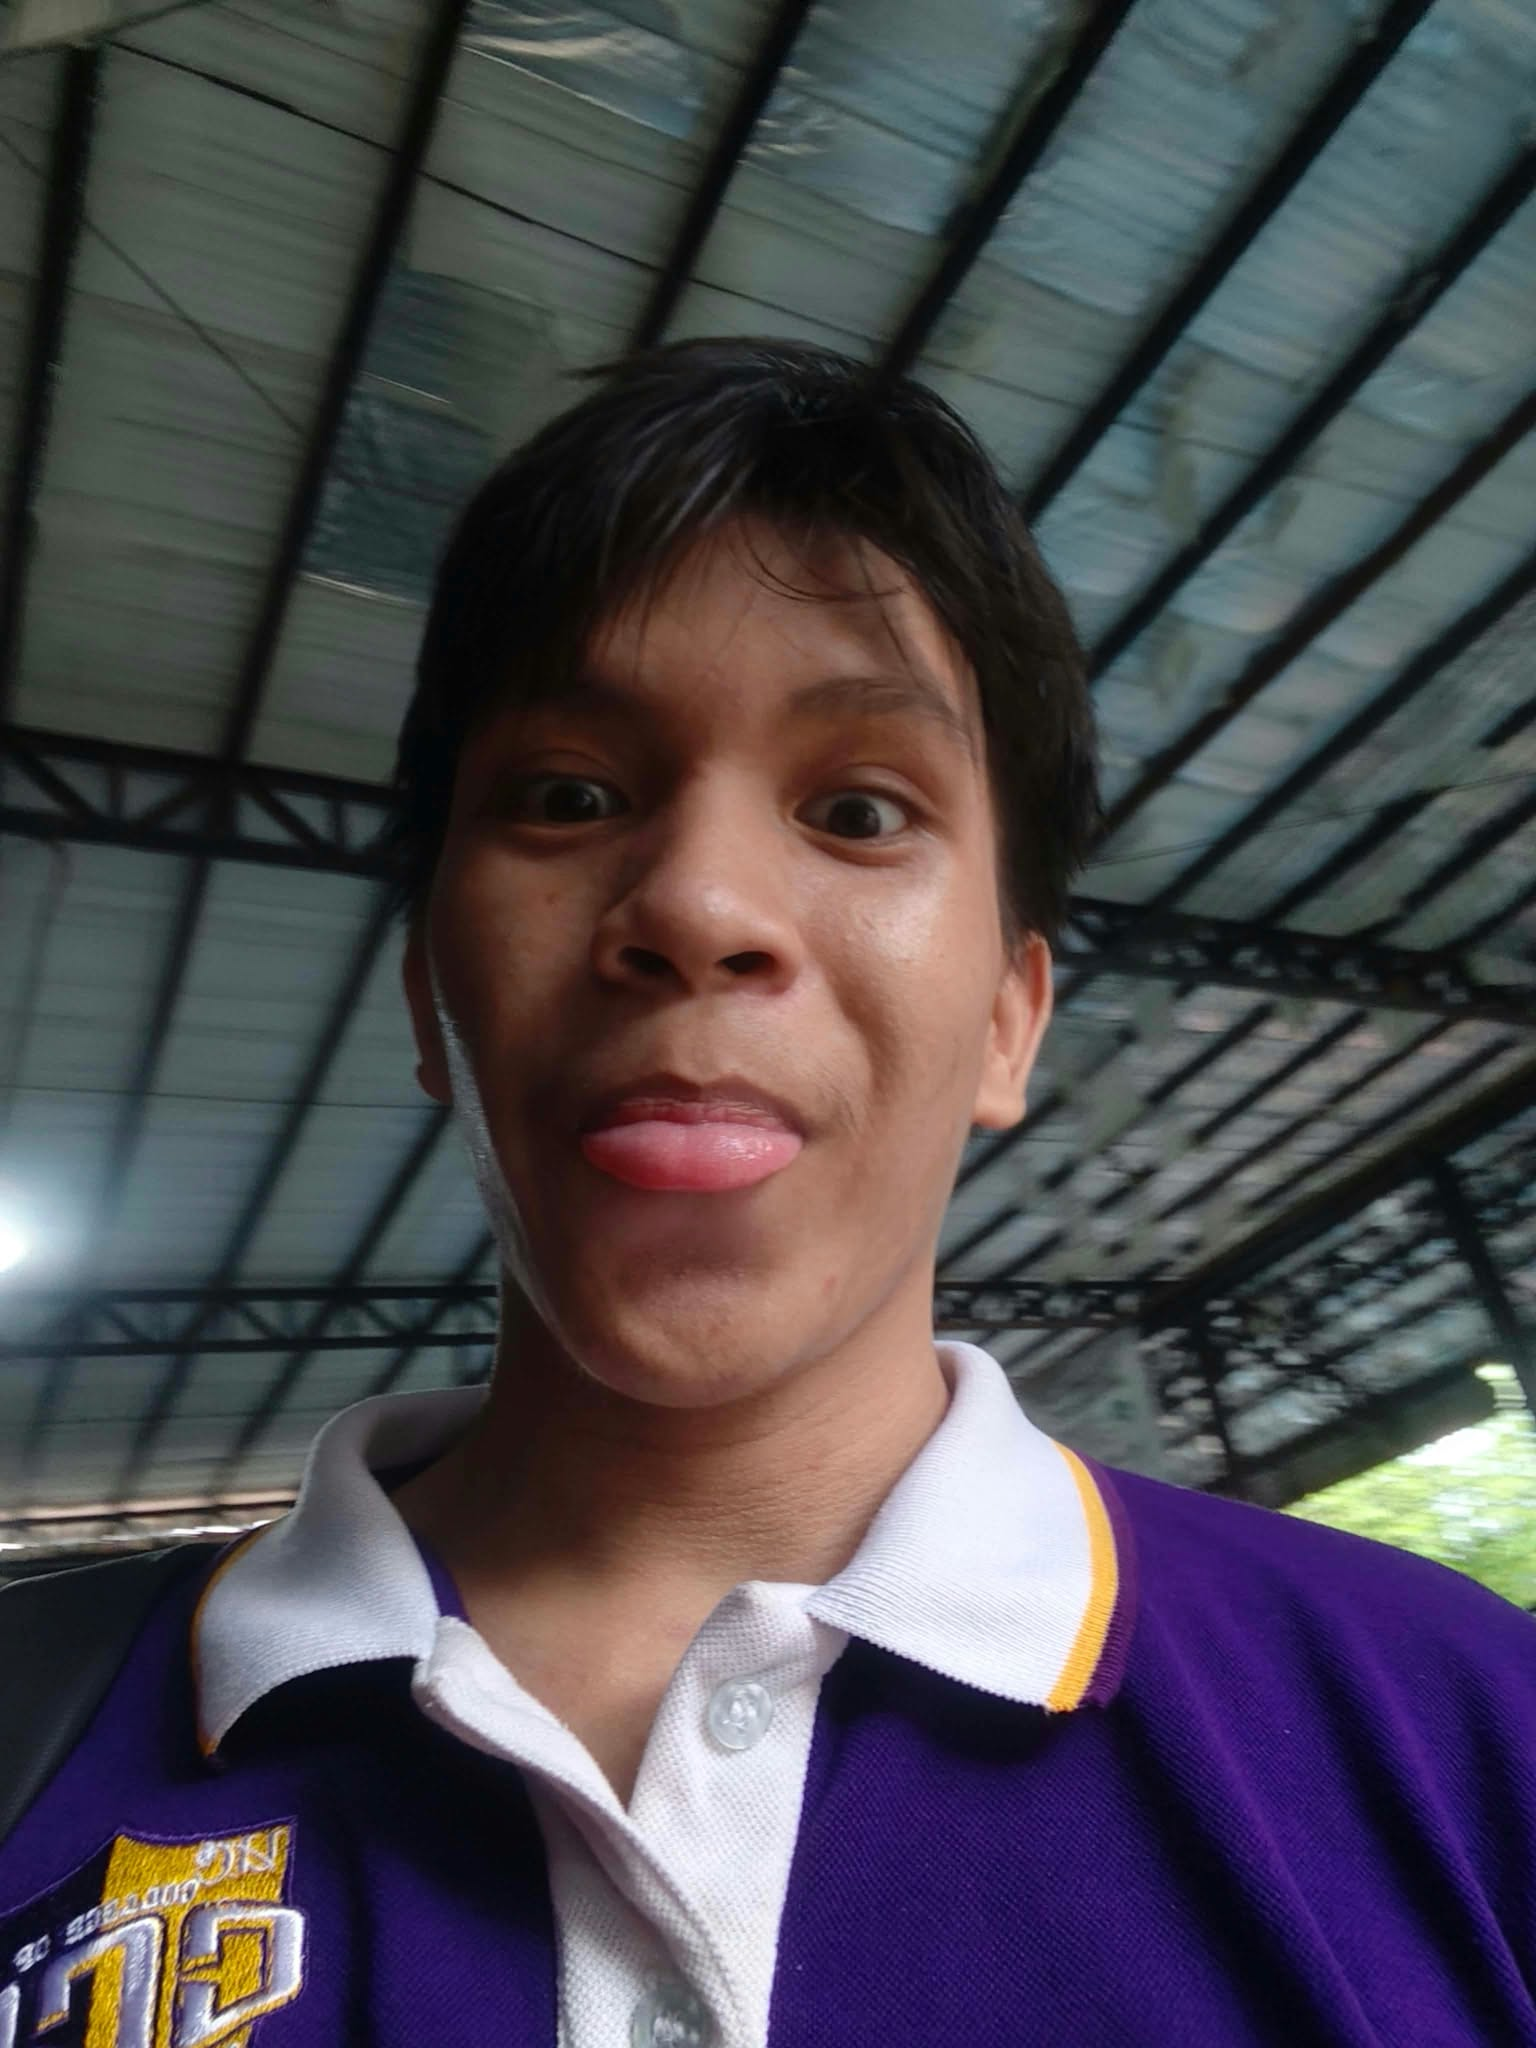
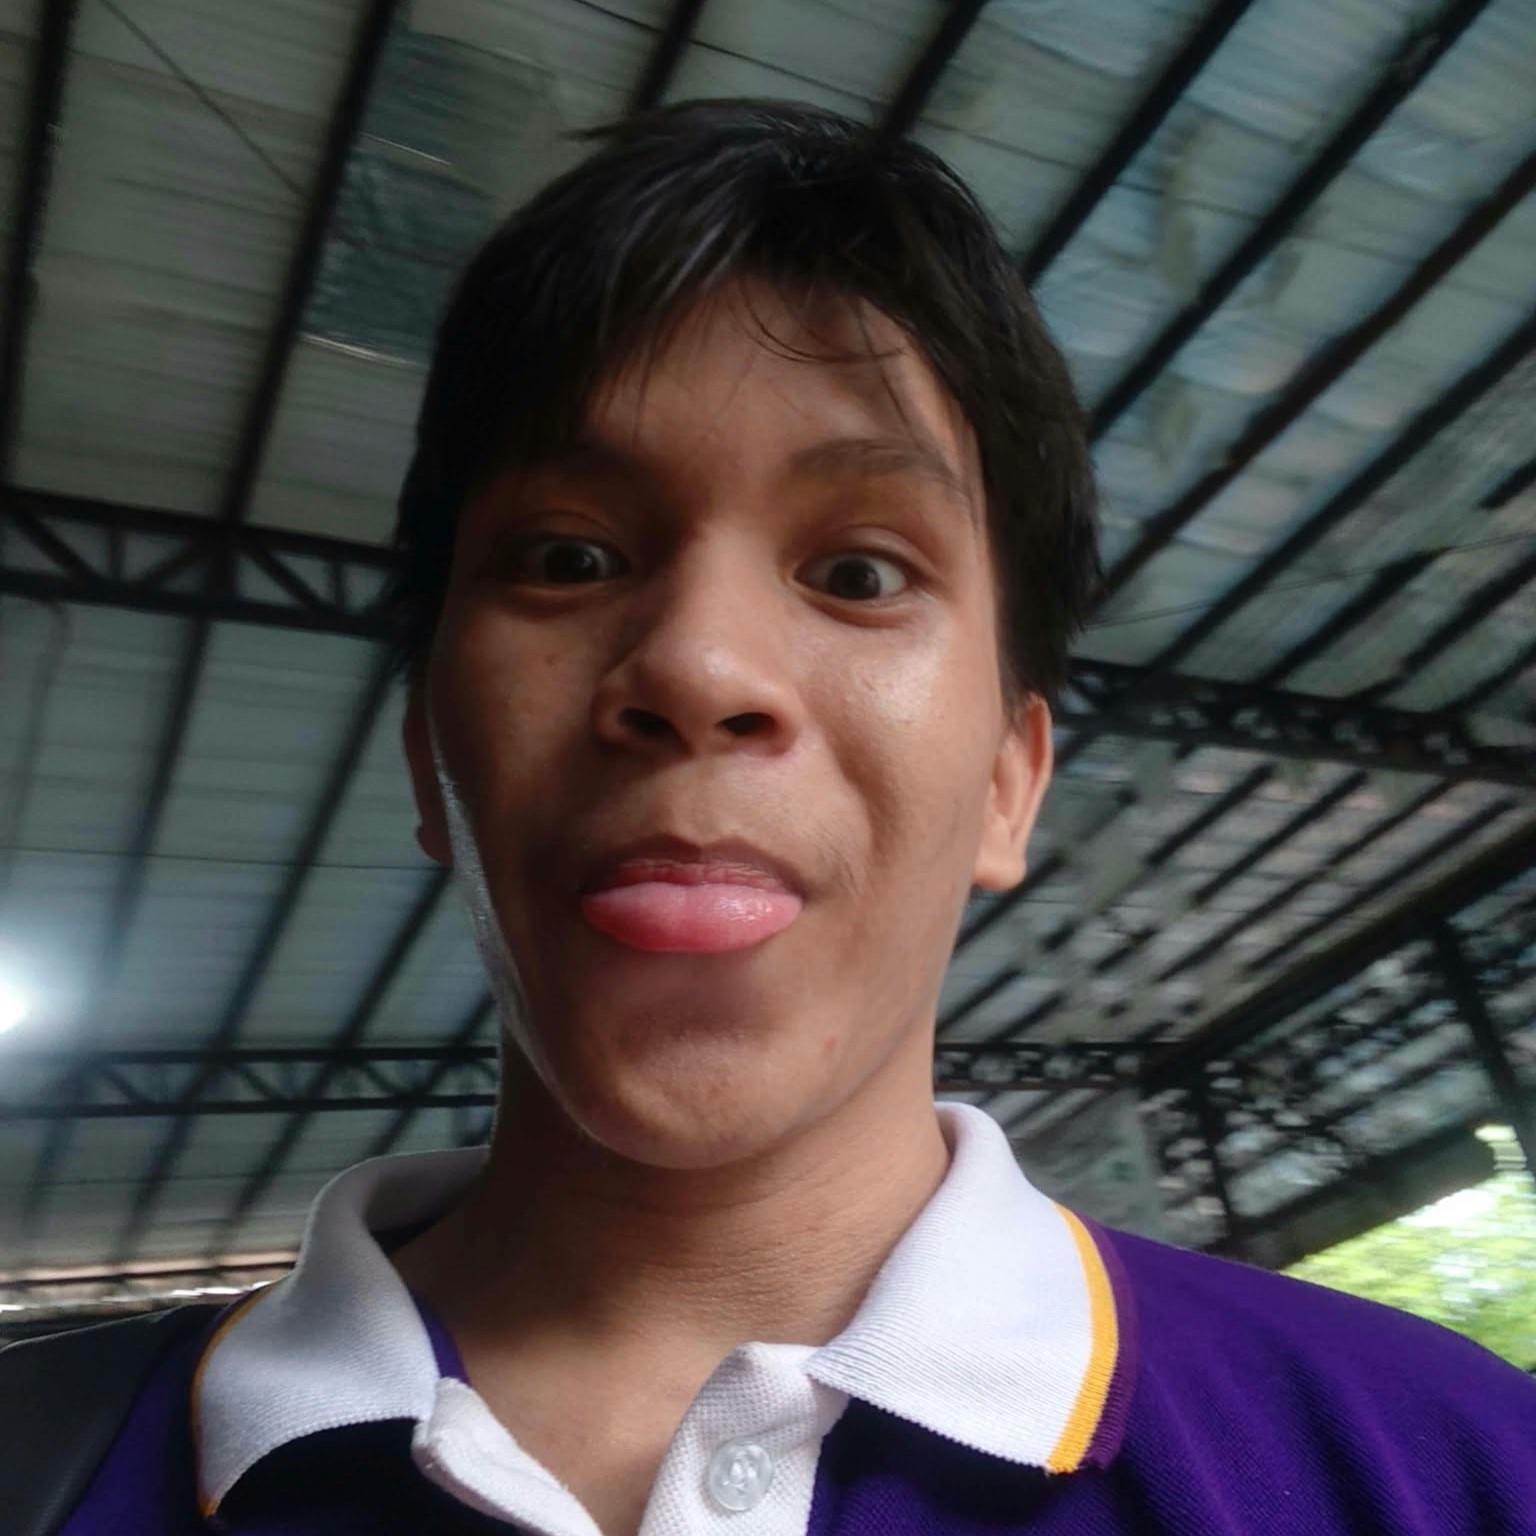
Add student profile and profile picture

diff --git a/index.html b/index.html
@@ -1,65 +1,156 @@
-<html>
+<!DOCTYPE html>
+<html lang="en">
     <head>
-
+        <meta charset="UTF-8">
+        <meta name="viewport" content="width=device-width, initial-scale=1.0">
+        <title>Muring's Profile</title>
     </head>
+
+    
     <body>
-        <header>
+        <header id="top">
+            <h1>Hendrick Stefan Muring</h1>
+            <p>Illustrator and Coder</p>
+
             <nav>
-                <h4 align="center">Profile | Education | Skills | Contact</h4>
+                    <a href="#profile">Profile</a> |
+                    <a href="#education">Education</a> |
+                    <a href="#skills">Skills</a> |
+                    <a href="#hobbies">Hobbies</a> |
+                    <a href="#links">Links</a> |
+                    <a href="#contact">Contact</a>
             </nav>
         </header>
 
+        <hr>
+
         <main>
-            <section>
-                <img src="profile-pic.jpg" alt="Profile Picture" width="200" align="center">
-                <h2>Student Profile</h1>
-                <h3>I'm Hendrick Stefan Muring</h3>
-                <p>Lorem ipsum</p>
+            <section id="profile">
+                <h2>Profile</h2>
+                <img src="profile-pic.jpg" 
+                     alt="Picture of Hendrick Stefan Muring" 
+                     width="150">
+                     
+                <p>
+                    Hello! I am Hendrick Stefan Muring, and I am a second-year BSIT 
+                    student at the University of Cebu. I'm interested in programming 
+                    and digital illustration, and I'm working toward developing my skills 
+                    in software development and creating digital artwork. 
+                </p>
+                
+                <p><strong>Name:</strong> Hendrick Stefan T. Muring</p>
+                <p><strong>Age:</strong> 19 years old</p>
+                <p><strong>Location:</strong> L. Flores St., Cebu City, Philippines</p>
             </section>
-            
-            <section>
+
+            <hr>
+
+            <section id="education">
                 <h2>Education</h2>
+                <p>A summary of my academic background and current educational level.</p>
 
-                <article>
-                        <h3>Elementary </h3>
-                            <p>Pasil Elementary School</p>
-                        <h3>High School</h3>
-                            <p>University of Cebu Main Campus</p>
-                        <h3>College</h3>
-                            <p>University of Cebu Main Campus (Bachelor of Science in Computer Science)</p>
-                    </article>
+                <h3>Current Educational Level</h3>
+                <p><strong>Course:</strong> Bachelor of Science in Information Technology</p>
+                <p><strong>School:</strong> University of Cebu Main Campus</p>
+                <p><strong>Year Level:</strong> 2nd Year</p>
             </section>
-            
-            <section>
+
+            <hr>
+
+            <section id="skills">
                 <h2>Skills</h2>
-                    <ul>
-                        <li>Drawing</li>
-                        <li>...</li>
-                        <li>...</li>
-                    </ul>
-                <h2>Hobbies</h2>
-                    <ul>
-                        <li>Drawing</li>
-                        <li>...</li>
-                        <li>...</li>
-                    </ul>
+
+                <h3>Programming</h3>
+                <ul>
+                    <li>C</li>
+                    <li>Java</li>
+                    <li>C#</li>
+                </ul>
+
+                <h3>Web Development</h3>
+                <ul>
+                    <li>HTML</li>
+                    <li>CSS</li>
+                </ul>
+
+                <h3>Art & Illustration</h3>
+                <ul>
+                    <li>Digital Illustration</li>
+                    <li>Character Drawing</li>
+                    <li>Sprite Illustration</li>
+                </ul>
+
+                <h3>Tools & Software</h3>
+                <ul>
+                    <li>Git</li>
+                    <li>GitHub</li>
+                    <li>Visual Studio Code</li>
+                </ul>
             </section>
 
-            <section>
+            <hr>
+
+            <section id="hobbies">
+                <h2>Hobbies & Interests</h2>
+
+                <h3>Creative</h3>
+                <ul>
+                    <li>Drawing</li>
+                    <li>Browsing Art Portfolios</li>
+                    <li>Playing Guitar</li>
+                </ul>
+
+                <h3>Entertainment</h3>
+                <ul>
+                    <li>Gaming</li>
+                    <li>Reading Manga and Manhwa</li>
+                    <li>Listening to Music</li>
+                </ul>
+
+                <h3>Lifestyle</h3>
+                <ul>
+                    <li>Going to the Gym</li>
+                    <li>Me Time</li>
+                    <li>Going Out with Friends</li>
+                </ul>
+            </section>
+
+            <hr>
+
+            <section id="links">
+                <h2>Links</h2>
+                <ul>
+                    <li><a href="https://www.facebook.com/hendrickstefan.muring">Facebook</a></li>
+                    <li><a href="https://www.instagram.com/chickh.en/">Instagram (Personal)</a></li>
+                    <li><a href="https://www.instagram.com/muizpan/">Instagram (Art)</a></li>
+                    <li><a href="https://github.com/Muizpan">GitHub</a></li>
+                </ul>
+            </section>
+
+            <hr>
+
+            <section id="contact">
                 <h2>Contact</h2>
+                <address>
+                    <p>
+                        <strong>Email:</strong>
+                        <a href="mailto:hendrickstefanmuring@gmail.com">hendrickstefanmuring@gmail.com</a>
+                    </p>
 
-                    <h3>Contact #</h3>
-                    <p>09693192377</p>
-
-                    <h3>Links</h3>
-                    <p><a href="#">Facebook</a></p>
-                    <p><a href="#">Instagram</a></p>
-                    <p><a href="#">Github</a></p>
-                </section>
+                    <p>
+                        <strong>Contact Number:</strong>
+                        <a href="tel:+639693192377">+63 969 319 2377</a>
+                    </p>
+                </address>
+            </section>
         </main>
+        
+        <p><a href="#top">Back to Top</a></p>
+        <hr>
 
         <footer>
-            
+                <p>&copy; 2026 Hendrick Stefan Muring.</p> 
+                <p>All rights reserved.</p>
         </footer>
     </body>
 </html>
